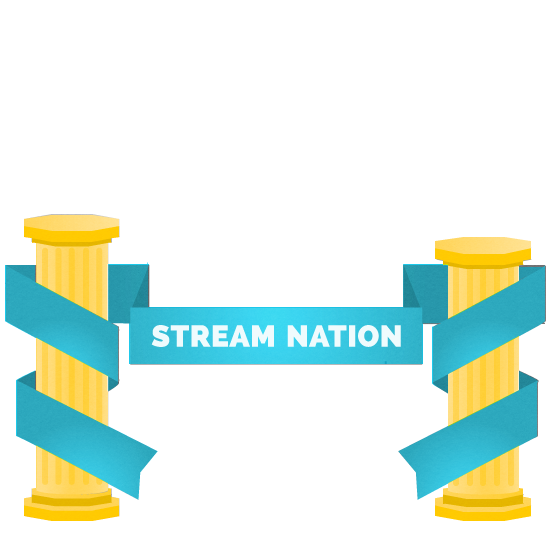
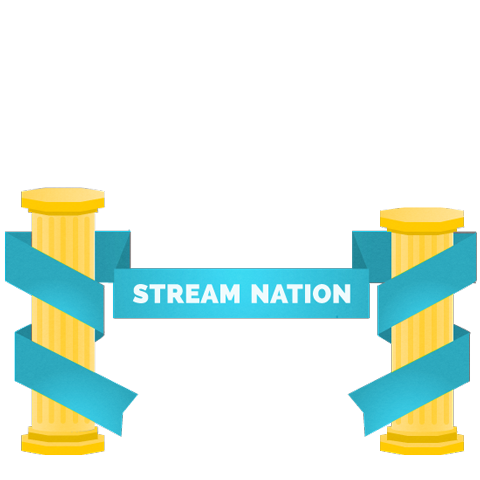
Finished replacing images with downsized versions.

diff --git a/index.php b/index.php
@@ -16,7 +16,7 @@
     <div class="hero-image">
       <img id="hero-cloud" src="img/png/hero/Cloud.png">
       <img src="img/png/hero/shield_animation.gif" class="animation">
-      <img src="img/png/hero/shield_background.png">
+      <img src="img/png/hero/Shield.png">
       <img src="img/png/hero/Pillars.png" class="foreground">
       <img id="hero-computer" src="img/png/hero/Computer.png">
       <img id="hero-ipad" src="img/png/hero/iPad.png">
